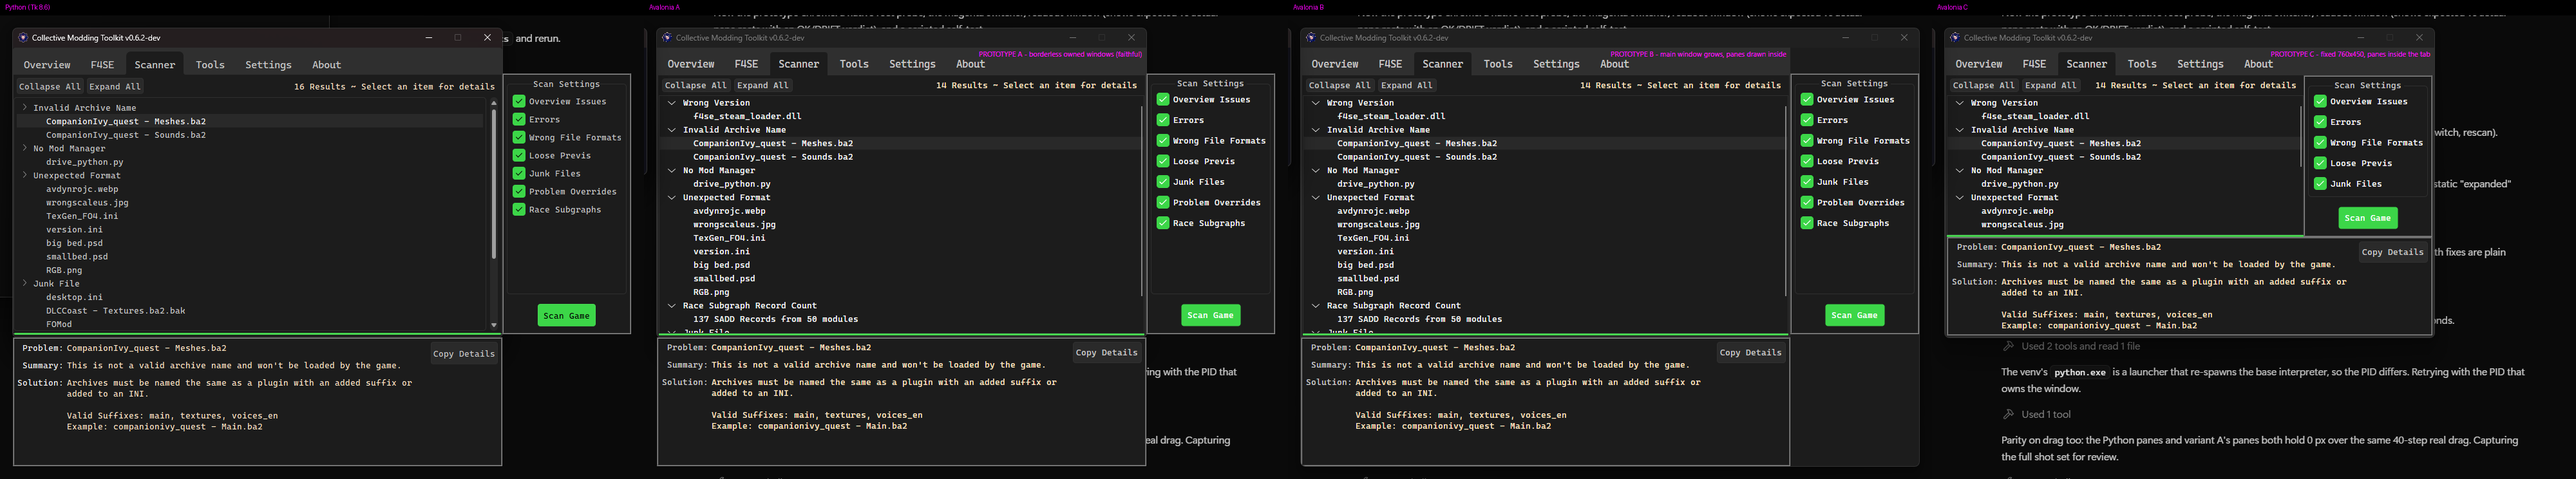
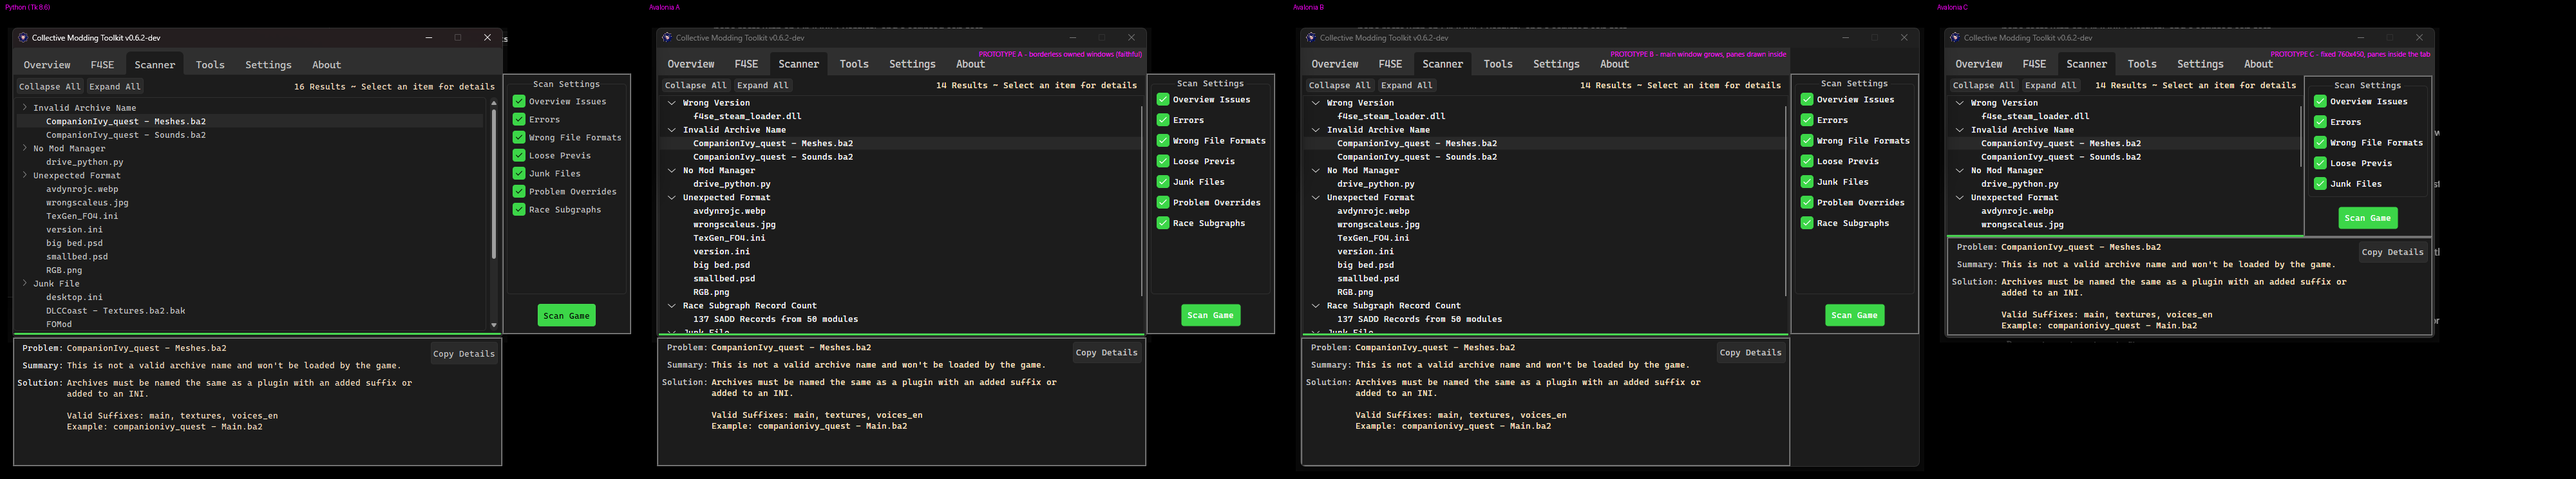
prototype: mask desktop background out of the scanner-panes captures

diff --git a/prototypes/scanner-panes/mask.py b/prototypes/scanner-panes/mask.py
@@ -1,0 +1,25 @@
+"""PROTOTYPE helper (throwaway): blacks out everything in a capture that isn't one of the app's windows.
+
+Screen grabs pick up whatever sits behind the windows. Every capture here uses the same framing (region origin =
+client origin - (20, 50)), so the window rects are fixed in image space. Run before compose.py.
+"""
+
+from pathlib import Path
+
+from PIL import Image, ImageDraw
+
+HERE = Path(__file__).parent
+MAIN = (12, 19, 12 + 776, 19 + 489)  # outer frame, client at (20, 50)
+SIDE = (780, 90, 980, 495)  # client (760, 40), 200x405
+DETAILS = (20, 500, 780, 700)  # client (0, 450), 760x200
+GROWN = (12, 19, 12 + 976, 19 + 689)  # variant B: 960x650 client + frame
+
+for png in [*HERE.glob("shots/avalonia-*.png"), *HERE.glob("shots/drag-*.png"), *HERE.glob("reference/*.png")]:
+	keep = [GROWN] if "-B-" in png.name else [MAIN] if "-C-" in png.name else [MAIN, SIDE, DETAILS]
+	im = Image.open(png).convert("RGB")
+	mask = Image.new("L", im.size, 0)
+	draw = ImageDraw.Draw(mask)
+	for box in keep:
+		draw.rectangle((box[0], box[1], box[2] - 1, box[3] - 1), fill=255)
+	Image.composite(im, Image.new("RGB", im.size, "black"), mask).save(png)
+	print("masked", png.relative_to(HERE))

diff --git a/prototypes/scanner-panes/README.md b/prototypes/scanner-panes/README.md
@@ -37,6 +37,8 @@ A magenta **PROTOTYPE controls** window opens left of the main window. It is not
   like the shipped build), running a **real scan** of this machine's install. Driven by `reference/drive_python.py`,
   captured by `reference/capture-python.ps1`. The uv-managed CPython ships Tk 9, which sv_ttk rejects; see the
   script header for the scratch venv.
+- All captures are run through `mask.py`, which blacks out everything outside the app's own windows (screen grabs
+  pick up whatever is behind them).
 - `shots/avalonia-<variant>-<pick>.png`: the same screen region with the client origin in the same place
   (`capture.ps1`). `shots/compare-*.png` = `[python | A | B | C]` (`compose.py`).
 - `drag.ps1`: drags a window by its title bar with **real mouse input** (the OS modal move loop) and samples all three
